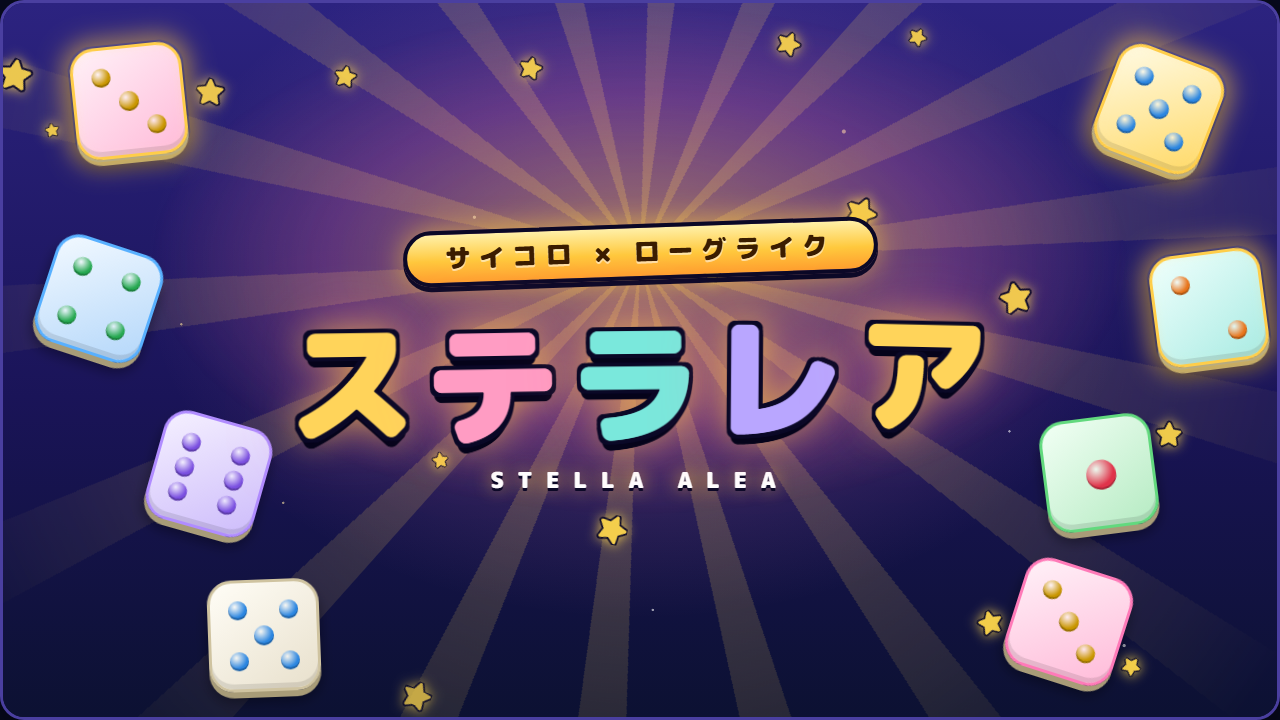
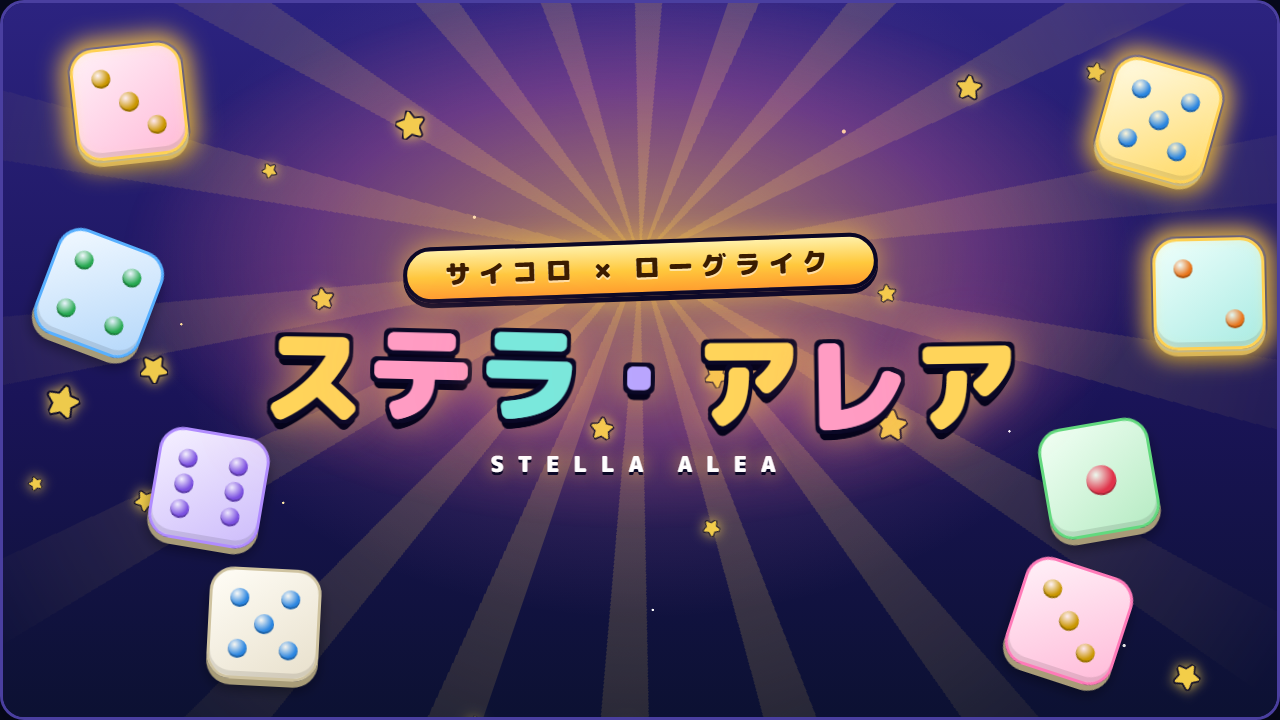
名前を「ステラ・アレア」に変更(ゲーム内・INDEX・サムネ)

diff --git a/StellaAlea/index.html b/StellaAlea/index.html
@@ -4,7 +4,7 @@
     <meta charset="UTF-8">
     <script>if(screen.orientation&&screen.orientation.lock){screen.orientation.lock('landscape').catch(function(){});}</script>
     <meta name="viewport" content="width=device-width, initial-scale=1.0, maximum-scale=1.0, user-scalable=no">
-    <title>ステラレア - Fun & Growth Lab</title>
+    <title>ステラ・アレア - Fun & Growth Lab</title>
     <link href="https://fonts.googleapis.com/css2?family=M+PLUS+Rounded+1c:wght@400;700;800;900&display=swap" rel="stylesheet">
     <style>
         :root {
@@ -67,6 +67,7 @@
             text-shadow: 0 -4px 0 var(--ol), 0 4px 0 var(--ol), -4px 0 0 var(--ol), 4px 0 0 var(--ol), -4px -4px 0 var(--ol), 4px -4px 0 var(--ol), -4px 4px 0 var(--ol), 4px 4px 0 var(--ol),
                           0 10px 0 #05031a, 0 0 36px rgba(255,201,61,.85), 0 0 70px rgba(255,111,165,.5); }
         @keyframes bob { 0%,100% { transform: translateY(0) rotate(-1deg); } 50% { transform: translateY(-12px) rotate(1.5deg); } }
+        .t-title.ja7 { font-size: 6.6rem; letter-spacing: 3px; }
         .t-title.en { font-size: 6.2rem; letter-spacing: 4px; }
         .lang-en .t-en { display:none; }
         .t-en { font-size:1.35rem; letter-spacing:14px; color:#fff; font-weight:900; margin-top:4px; text-shadow: 0 3px 0 var(--ol), 0 0 18px rgba(255,201,61,.9); }
@@ -929,7 +930,7 @@ let currentLang = (function(){
 })();
 // 文字列辞書。値が関数のものは引数をとる
 const TX = {
-    page_title:   { ja: 'ステラレア - Fun & Growth Lab', ja_easy: 'ステラレア - Fun & Growth Lab', en: 'STELLA ALEA - Fun & Growth Lab' },
+    page_title:   { ja: 'ステラ・アレア - Fun & Growth Lab', ja_easy: 'ステラ・アレア - Fun & Growth Lab', en: 'STELLA ALEA - Fun & Growth Lab' },
     t_sub:        { ja: 'サイコロ × ローグライク', ja_easy: 'サイコロ × ローグライク', en: 'Dice × Roguelike' },
     btn_start:    { ja: 'ゲームスタート', ja_easy: 'ゲームスタート', en: 'Start Game' },
     btn_howto:    { ja: '📖 あそびかた', ja_easy: '📖 あそびかた', en: '📖 How to Play' },
@@ -1186,8 +1187,8 @@ function dieCardHtml(d, o){
 // ============================================================
 const TITLE_COLORS = ['#ffd45a', '#ff9cc3', '#7ae8dc', '#b9a6ff', '#ffd45a', '#ff9cc3'];
 function buildTitle(){
-    const word = currentLang === 'en' ? 'STELLA ALEA' : 'ステラレア';
-    $('t-title').className = 't-title' + (currentLang === 'en' ? ' en' : '');
+    const word = currentLang === 'en' ? 'STELLA ALEA' : 'ステラ・アレア';
+    $('t-title').className = 't-title' + (currentLang === 'en' ? ' en' : ' ja7');
     $('t-title').innerHTML = word.split('').map((c, i) => `<span style="color:${TITLE_COLORS[i % TITLE_COLORS.length]};animation-delay:${-i * 0.3}s">${c === ' ' ? '&nbsp;' : c}</span>`).join('');
     // 型ごとに色のちがうサイコロ(★の多いものは金色に光る)。タイトルでは★は描かない
     const ds = [
@@ -1995,7 +1996,7 @@ buildTitle();
 updateNameBtn();
 if (!RANKING_ENABLED) $('btn-ranking').classList.add('hidden');
 try {
-    const allText = Object.values(TX).map(e => (typeof e.ja === 'string' ? e.ja + e.ja_easy + e.en : '')).join('') + '全偶奇素倍和個↑↓×＋：、。！？ステラレアサイコロぐうすうきすう以下上のばい目';
+    const allText = Object.values(TX).map(e => (typeof e.ja === 'string' ? e.ja + e.ja_easy + e.en : '')).join('') + '全偶奇素倍和個↑↓×＋：、。！？ステラ・アレアサイコロぐうすうきすう以下上のばい目';
     ['700', '800', '900'].forEach(w => document.fonts.load(`${w} 16px "M PLUS Rounded 1c"`, allText));
 } catch (e) {}
 </script>

diff --git a/index.html b/index.html
@@ -1767,7 +1767,7 @@
         </div>
 
         <div class="game-card card-new" data-tags="sub-math con-add con-mul gen-rpg gen-puzzle gr-4" style="border-top:4px solid #7a5cff;">
-            <div class="card-title" data-i18n="c28_title">ステラレア</div>
+            <div class="card-title" data-i18n="c28_title">ステラ・アレア</div>
             <div class="card-action-row">
                 <button class="btn-mini-action btn-howto" onclick="openModal('howto', this)"><span data-i18n="btn_howto">📖 あそびかた</span></button>
                 <button class="btn-mini-action btn-obj" onclick="openModal('obj', this)"><span data-i18n="btn_obj">🎯 ねらい</span></button>
@@ -1786,7 +1786,7 @@
                 <span class="mini-tag" data-i18n="tag_gr4">4年生〜</span>
             </div>
             <a href="StellaAlea/index.html" class="media-container">
-                <img src="images/StellaAlea.png?v=20261024" alt="ステラレア">
+                <img src="images/StellaAlea.png?v=20261025b" alt="ステラ・アレア">
             </a>
             <div class="start-btn-area">
                 <a href="StellaAlea/index.html" class="play-btn">ゲームスタート ▶</a>
@@ -2096,7 +2096,7 @@
                 c27_title: 'ワードランナー',
                 c27_desc: '日本語を見て、英単語をタイピング！学年や「曜日」「動物」などのテーマを選んで、先に覚えてから打つ「れんしゅう」と、思い出して打つ「ちょうせん」で遊べます。間違えるとHPがへるので、ていねいに打とう。',
                 c27_obj: '英単語のつづりを「見て・覚えて・思い出して打つ」ことで、タイピングと英語の語彙が同時に身につきます。',
-                c28_title: 'ステラレア',
+                c28_title: 'ステラ・アレア',
                 c28_desc: '3つのサイコロをふって、出た目の和に「役」「スキル」「★」をかけ算！ガチャでサイコロを集め、スキルを育てて7ステージをクリアしよう。ふりなおしやコインのやりくりも作戦のうち。',
                 c28_obj: 'サイコロの和を出し、偶数・奇数・素数・倍数などの数の性質をいかして得点をのばすので、かけ算の感覚と数の性質が自然に身につきます。スキルやサイコロを選ぶ中で、計画と確率の感覚も育ちます。',
                 tag_eng: 'えいご',
